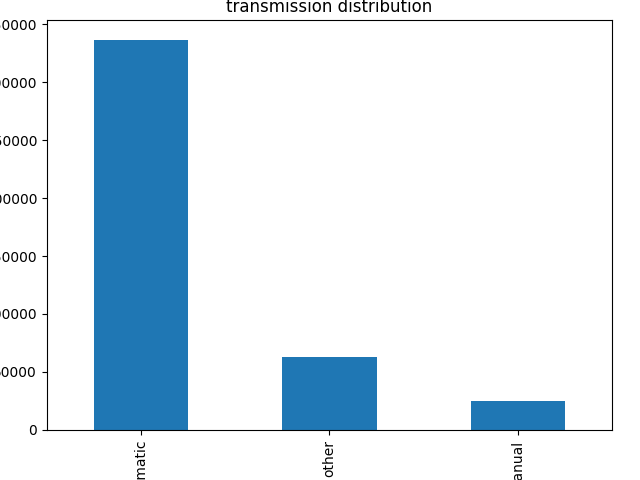
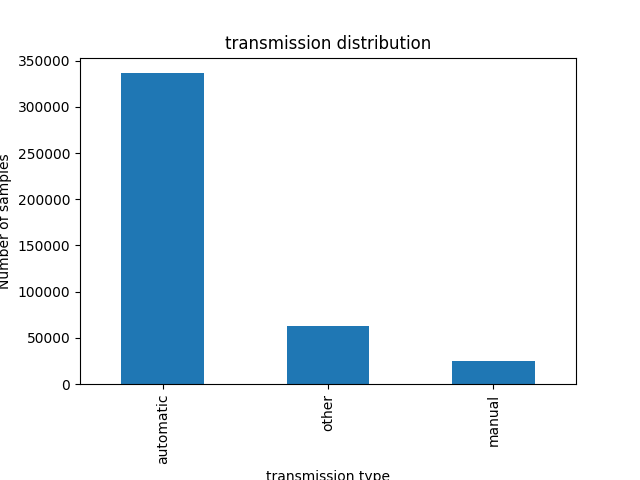
Finished model

diff --git a/process_dataset.py b/process_dataset.py
@@ -5,10 +5,8 @@ from sklearn.preprocessing import MinMaxScaler
 
 
 def plot_text_field(df,name):
-    plt.figure()
-    plt.subplots_adjust(bottom=0.15)
-    plt.xticks(rotation=45)
-    plt.tight_layout()  
+    plt.figure(figsize=(8, 6))
+    plt.subplots_adjust(bottom=0.2)
     df[name].value_counts().plot(kind="bar")  
     plt.title(name+" distribution")
     plt.xlabel(name+" type")
@@ -18,7 +16,7 @@ def plot_text_field(df,name):
     plt.close()
     
 def plot_numeric_field(df,name):
-    plt.figure()
+    plt.figure(figsize=(8, 6))
     df[name].hist(bins=10)
     plt.xlabel(name)
     plt.ylabel("Frequency")
@@ -26,6 +24,14 @@ def plot_numeric_field(df,name):
     plt.grid(False)
     plt.savefig("./img/"+name+".png", format="png")
     plt.close()
+    
+def relation_numeric(df,name):
+    plt.figure(figsize=(8, 6))
+    sns.scatterplot(x='price', y=name, data=df)
+    plt.title("Violin Plot of "+name+ "by price")
+    plt.savefig("./img/corr"+name+".png", format="png")
+    plt.close()
+
 
 df = pd.read_csv("vehicles_trimmed.csv")
 df = df.drop("id",axis=1)
@@ -174,8 +180,8 @@ plt.savefig("./img/corr.png", format="png")
 # print(df.info())
 # print(df.head())
 
-plt.figure(figsize=(8, 6))  # Set the figure size
-sns.scatterplot(x='price', y='year', data=df)
-plt.title('Violin Plot of Total Bill by Day')
-# plt.show()
+
+relation_numeric(df,'year')
+relation_numeric(df,'odometer')
+
 df.to_csv("car_cleaned.csv")

diff --git a/accuracy.py b/accuracy.py
@@ -1,5 +1,5 @@
 import joblib
-from sklearn.metrics import accuracy_score, confusion_matrix, ConfusionMatrixDisplay,root_mean_squared_error
+from sklearn.metrics import root_mean_squared_error, mean_absolute_error,r2_score
 import pandas as pd
 from sklearn.model_selection import train_test_split
 import matplotlib.pyplot as plt
@@ -11,23 +11,27 @@ X = df.drop(columns="price",axis=1)
 y = df["price"]
 X_train, X_test, y_train, y_test = train_test_split(X,y,test_size = 0.2,random_state = 20) 
 
-model = joblib.load("model2.pk1")
+model = joblib.load("model.pk1")
 
 y_pred = model.predict(X_test)
 print(3)
 
-accuracy = root_mean_squared_error(y_test, y_pred)
+accuracy_rms = root_mean_squared_error(y_test, y_pred)
+accuracy_mae = mean_absolute_error(y_test,y_pred)
+accuracy_r2 = r2_score(y_test,y_pred)
 
-print(f"Acuratețea modelului de regresie logistică: {accuracy:.2f}")
+print(f"Acuratețea modelului de regresie logistică(rms): {accuracy_rms:.2f}")
+print(f"Acuratețea modelului de regresie logistică(mae): {accuracy_mae:.2f}")
+print(f"Acuratețea modelului de regresie logistică(r2): {accuracy_r2:.2f}")
 
 residuals = y_test - y_pred
 
 plt.figure(figsize=(8, 5))
 sns.scatterplot(x=y_pred, y=residuals)
-plt.axhline(0, color='red', linestyle='--')
 plt.xlabel('Predicted Values')
 plt.ylabel('Residuals (True - Predicted)')
 plt.title('Residual Plot')
-plt.show()
+plt.savefig("./img/residuals.png",format='png')
+
 
 

diff --git a/train_model.py b/train_model.py
@@ -19,7 +19,4 @@ print(2)
 y_pred = model.predict(X_test)
 print(3)
 
-accuracy = mean_absolute_error(y_test, y_pred)
-print(f"Acuratețea modelului de regresie logistică: {accuracy}")
-
-joblib.dump(model,"model2.pk1")
+joblib.dump(model,"model.pk1")

diff --git a/README.md b/README.md
@@ -169,3 +169,17 @@ invers proportional cu kilometraj si fwd.
 
 Dintre modele cel mai bun(dupa mean squared error) e linear regression cu
 eroare de ~0.132.
+
+![Corrkms](./img/corryear.png)
+![CorrYear](./img/corrodometer.png)
+
+Nu ne putem da seama de un pattern clar, se poate intui unul liniar la ani, insa vag.
+
+## Antrenarea modelului
+
+Am ales un model de regresie liniara si un split 80/20.
+Acuratete MAE:0.13
+Acuratete RMSE:0.18
+Acuratete R2:0.37
+
+![Residuals](./img/residuals.png)
